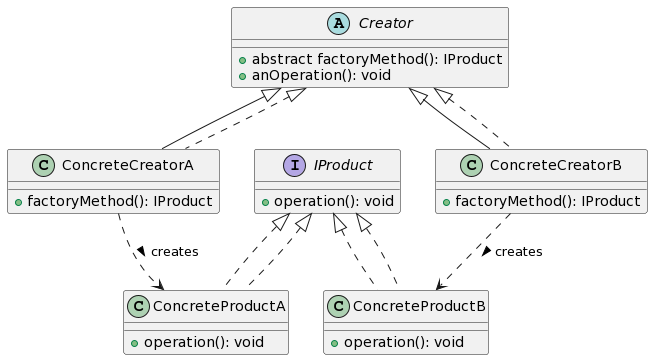
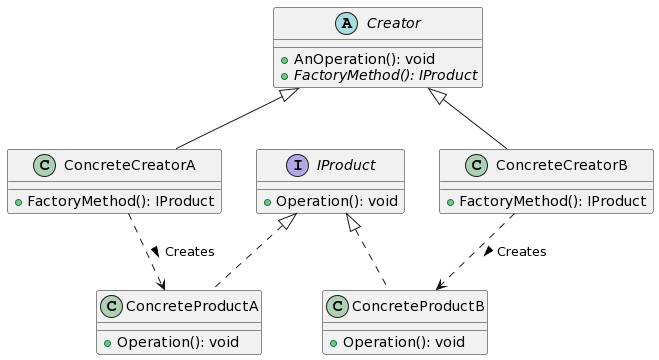
Added AbstractFactory v1 and png change for factory method

diff --git a/CreationalPatterns/AbstractFactory/src/Program.cs b/CreationalPatterns/AbstractFactory/src/Program.cs
@@ -1,0 +1,27 @@
+using System;
+
+namespace AbstractFactoryExample
+{
+    class Program
+    {
+        static void Main(string[] args)
+        {
+            // Using ConcreteFactory1
+            IAbstractFactory factory1 = new ConcreteFactory1();
+            var productA1 = factory1.CreateProductA();
+            var productB1 = factory1.CreateProductB();
+
+            Console.WriteLine($"Created {productA1.GetType().Name} using {factory1.GetType().Name}");
+            Console.WriteLine($"Created {productB1.GetType().Name} using {factory1.GetType().Name}");
+
+            // Using ConcreteFactory2
+            IAbstractFactory factory2 = new ConcreteFactory2();
+            var productA2 = factory2.CreateProductA();
+            var productB2 = factory2.CreateProductB();
+
+            Console.WriteLine($"Created {productA2.GetType().Name} using {factory2.GetType().Name}");
+            Console.WriteLine($"Created {productB2.GetType().Name} using {factory2.GetType().Name}");
+
+        }
+    }
+}

diff --git a/CreationalPatterns/AbstractFactory/src/IAbstractFactory.cs b/CreationalPatterns/AbstractFactory/src/IAbstractFactory.cs
@@ -1,0 +1,16 @@
+/// <summary>
+/// Provides an interface for creating families of related or dependent objects without specifying their concrete classes.
+/// </summary>
+public interface IAbstractFactory
+{
+    /// <summary>
+    /// Creates an instance of type AbstractProductA.
+    /// </summary>
+    /// <returns>An instance of a product of type AbstractProductA.</returns>
+    IAbstractProductA CreateProductA();
+    /// <summary>
+    /// Creates an instance of type AbstractProductB.
+    /// </summary>
+    /// <returns>An instance of a product of type AbstractProductB.</returns>
+    IAbstractProductB CreateProductB();
+}

diff --git a/CreationalPatterns/AbstractFactory/src/ConcreteFactory2.cs b/CreationalPatterns/AbstractFactory/src/ConcreteFactory2.cs
@@ -1,0 +1,16 @@
+/// <summary>
+/// Concrete implementation of the AbstractFactory for the second family of products.
+/// </summary>
+public class ConcreteFactory2 : IAbstractFactory
+{
+    /// <inheritdoc/>
+    public IAbstractProductA CreateProductA()
+    {
+        return new ProductA2();
+    }
+    /// <inheritdoc/>
+    public IAbstractProductB CreateProductB()
+    {
+        return new ProductB2();
+    }
+}

diff --git a/CreationalPatterns/AbstractFactory/src/ConcreteFactory1.cs b/CreationalPatterns/AbstractFactory/src/ConcreteFactory1.cs
@@ -1,0 +1,16 @@
+/// <summary>
+/// Concrete implementation of the AbstractFactory for the first family of products.
+/// </summary>
+public class ConcreteFactory1 : IAbstractFactory
+{
+    /// <inheritdoc/>
+    public IAbstractProductA CreateProductA()
+    {
+        return new ProductA1();
+    }
+    /// <inheritdoc/>
+    public IAbstractProductB CreateProductB()
+    {
+        return new ProductB1();
+    }
+}

diff --git a/CreationalPatterns/AbstractFactory/src/ProductA2.cs b/CreationalPatterns/AbstractFactory/src/ProductA2.cs
@@ -1,0 +1,7 @@
+/// <summary>
+/// Represents a concrete product of type A from the second family.
+/// </summary>
+public class ProductA2 : IAbstractProductA
+{
+
+}

diff --git a/CreationalPatterns/AbstractFactory/src/ProductB2.cs b/CreationalPatterns/AbstractFactory/src/ProductB2.cs
@@ -1,0 +1,7 @@
+/// <summary>
+/// Represents a concrete product of type B from the second family.
+/// </summary>
+public class ProductB2 : IAbstractProductB
+{
+
+}

diff --git a/CreationalPatterns/AbstractFactory/src/ProductA1.cs b/CreationalPatterns/AbstractFactory/src/ProductA1.cs
@@ -1,0 +1,7 @@
+/// <summary>
+/// Represents a concrete product of type A from the first family.
+/// </summary>
+public class ProductA1 : IAbstractProductA
+{
+
+}

diff --git a/CreationalPatterns/AbstractFactory/src/ProductB1.cs b/CreationalPatterns/AbstractFactory/src/ProductB1.cs
@@ -1,0 +1,7 @@
+/// <summary>
+/// Represents a concrete product of type B from the first family.
+/// </summary>
+public class ProductB1 : IAbstractProductB
+{
+
+}

diff --git a/CreationalPatterns/AbstractFactory/src/IAbstractProductA.cs b/CreationalPatterns/AbstractFactory/src/IAbstractProductA.cs
@@ -1,0 +1,7 @@
+/// <summary>
+/// Declares an abstract product of type A.
+/// </summary>
+public interface IAbstractProductA
+{
+    
+}

diff --git a/CreationalPatterns/AbstractFactory/src/IAbstractProductB.cs b/CreationalPatterns/AbstractFactory/src/IAbstractProductB.cs
@@ -1,0 +1,7 @@
+/// <summary>
+/// Declares an abstract product of type B.
+/// </summary>
+public interface IAbstractProductB
+{
+    
+}

diff --git a/CreationalPatterns/AbstractFactory/README.md b/CreationalPatterns/AbstractFactory/README.md
@@ -1,0 +1,36 @@
+# Abstract Factory Design Pattern
+
+The Abstract Factory Design Pattern offers an interface for creating families of related or dependent objects without specifying their concrete classes. It provides a way to encapsulate a group of individual factories that have a common theme.
+
+<p align="center">
+  <img src="AbstractFactory.png" alt="Abstract Factory Design Pattern PlantUML">
+</p>
+
+### Analogy:
+
+Imagine a furniture store where you can choose between different styles, like 'Modern', 'Victorian', or 'Art Deco'. For each style, there's a suite of matching furniture: chairs, tables, sofas, etc. Abstract Factory provides a way for you to pick a style and then produce furniture that matches that style, without detailing the exact type or construction of each piece.
+
+### Benefits:
+
+1. **Consistency**: Ensures that products from one family are used together.
+2. **Separation of Concerns**: Separates the product creation code from its use.
+3. **Extensibility**: Easily add new product families without changing existing code.
+4. **Isolation of Concrete Classes**: The application code only deals with abstract interfaces.
+5. **Exchangeability**: Different product families can be easily swapped.
+  
+### Criticisms:
+
+1. **Complexity Increase**: The pattern can complicate the system if overused.
+2. **Static Nature**: Typically requires all products to be created upfront.
+3. **Difficult to Support New Kinds of Products**: Requires extending the factory interface, which might affect existing clients.
+
+### Common Scenarios for Abstract Factory:
+
+- **User Interfaces**: Providing a consistent look and feel across platforms.
+- **Toolkits & Libraries**: Ensuring integration consistency among a suite of products.
+- **Cross-Platform Development**: Offering platform-specific implementations of components.
+- **Configurations**: Serving different configurations with varied components.
+
+### Conclusion:
+
+The Abstract Factory pattern is powerful for ensuring thematic consistency in product families and isolating concrete product classes from client code. Like all design patterns, understanding its use-cases, benefits, and potential pitfalls is crucial to leverage it effectively in system design.
